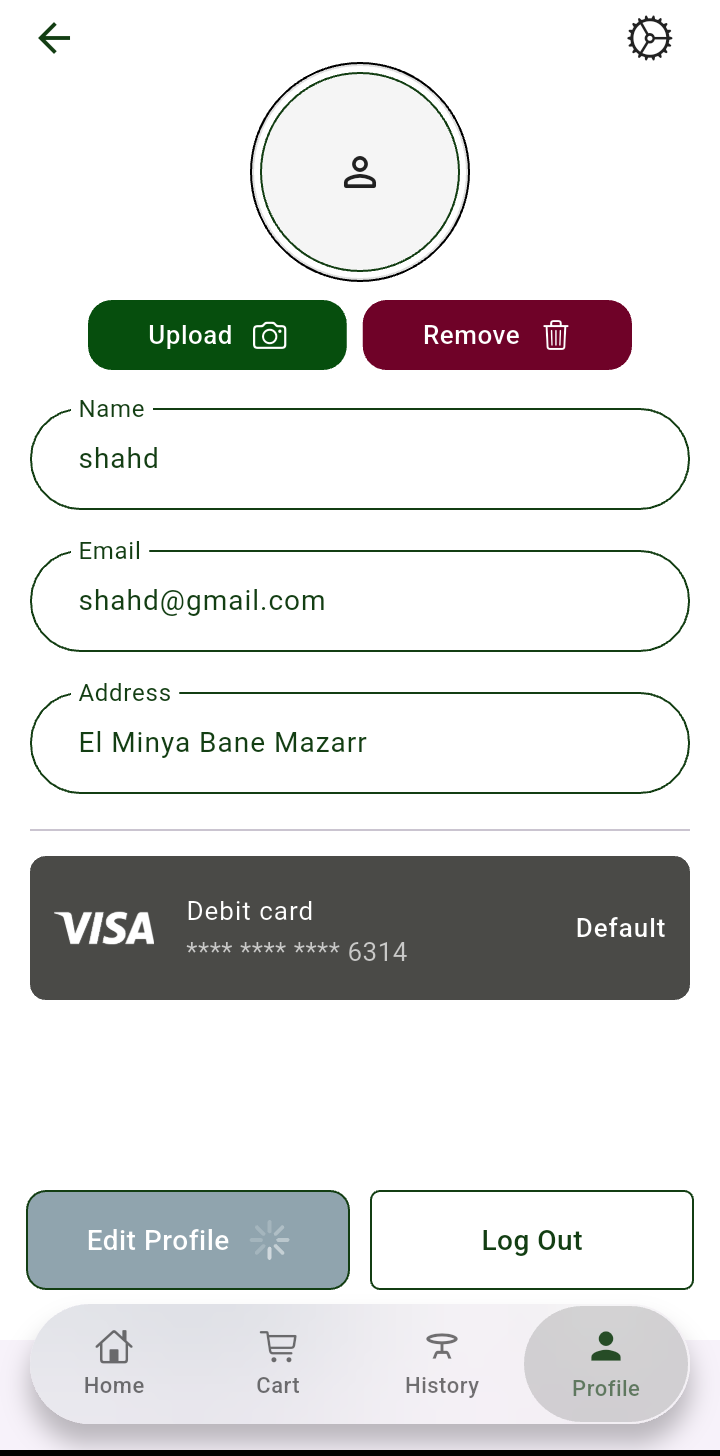
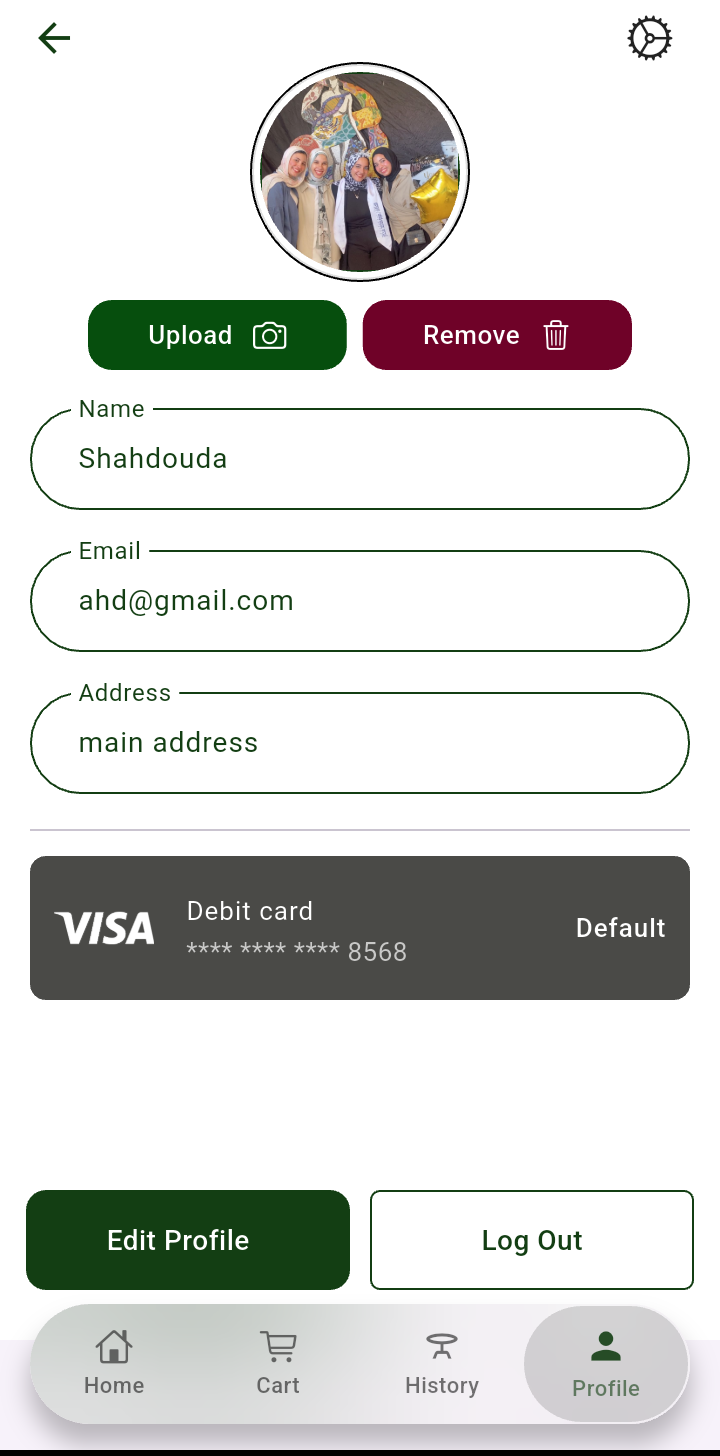
feat: add search functionality - Added real-time search for products - Filter products by name as the user types - Improved user experience on the home screen

diff --git a/lib/features/home/views/home_view.dart b/lib/features/home/views/home_view.dart
@@ -3,7 +3,6 @@ import 'package:flutter/cupertino.dart';
 import 'package:flutter/material.dart';
 import 'package:gap/gap.dart';
 import 'package:skeletonizer/skeletonizer.dart';
-
 import '../../../core/constants/api_colors.dart';
 import '../../../core/network/api_error.dart';
 import '../../../shared/custom_text/custom_snackbar.dart';
@@ -25,13 +24,15 @@ class HomeView extends StatefulWidget {
 class _HomeViewState extends State<HomeView> {
   final List<String> categories = ['All', 'Sliders', 'Combos', 'Classic'];
   int selectedIndex = 0;
-
+  TextEditingController searchController = TextEditingController();
   List<ProductModel>? products;
+  List<ProductModel> ?allProducts;
   final ProductRepo productRepo = ProductRepo();
 
   Future<void> getProducts() async {
     final response = await productRepo.getProducts();
     setState(() {
+      allProducts=response;
       products = response;
     });
   }
@@ -71,7 +72,7 @@ class _HomeViewState extends State<HomeView> {
       child: Skeletonizer(
         enabled: products == null,
         child: Scaffold(
-          backgroundColor: AppColors.primaryColor.withOpacity(0.1),
+          backgroundColor: Colors.grey[150],
           body: RefreshIndicator(
             color: AppColors.primaryColor,
             backgroundColor: Colors.white,
@@ -94,11 +95,19 @@ class _HomeViewState extends State<HomeView> {
                         children: [
                           const Gap(60),
                           UserHeader(
-                            userName: _userModel?.name ?? 'Doodah',
+                            userName: _userModel?.name ?? '',
                             userImage: _userModel?.image ?? '',
                           ),
                           const Gap(20),
-                          SearchHome(),
+                          SearchHome(
+                            searchController: searchController,
+                               onChanged:(value){
+                               final query = value.toLowerCase();
+                               setState(() {
+                                 products=allProducts?.where((p)=>p.name.toLowerCase().contains(query)).toList();
+                               });
+                               } ,
+                          ),
                         ],
                       ),
                     ),
@@ -121,7 +130,7 @@ class _HomeViewState extends State<HomeView> {
                   ),
                 ),
                 SliverPadding(
-                  padding: const EdgeInsets.only(left: 7, right: 7, bottom: 100, top: 15),
+                  padding: const EdgeInsets.only(left: 5, right: 5, bottom: 100, top: 10),
                   sliver: SliverGrid(
                     delegate: SliverChildBuilderDelegate(
                       childCount: products?.length,

diff --git a/lib/features/home/widgets/search_home.dart b/lib/features/home/widgets/search_home.dart
@@ -2,14 +2,19 @@ import 'package:flutter/cupertino.dart';
 import 'package:flutter/material.dart';
 import '../../../core/constants/api_colors.dart';
 class SearchHome extends StatelessWidget {
-  const SearchHome({super.key});
+   SearchHome({super.key, this.onChanged, required this.searchController});
+   TextEditingController searchController = TextEditingController();
+  final Function (String)? onChanged;
 
   @override
   Widget build(BuildContext context) {
     return  Material(
+
       elevation: 5,
       borderRadius: BorderRadius.circular(30),
       child: TextFormField(
+        onChanged: onChanged,
+        controller: searchController,
         style: TextStyle(color: AppColors.primaryColor),
         cursorColor:AppColors.primaryColor,
         cursorHeight: 20.0,

diff --git a/README.md b/README.md
@@ -29,7 +29,6 @@ I am currently seeking opportunities as a Junior Flutter Developer where I can c
 - Cubit / Bloc
 - REST API
 - Dio
-- Firebase
 - Shared Preferences
 - Git & GitHub
 - Clean Architecture
